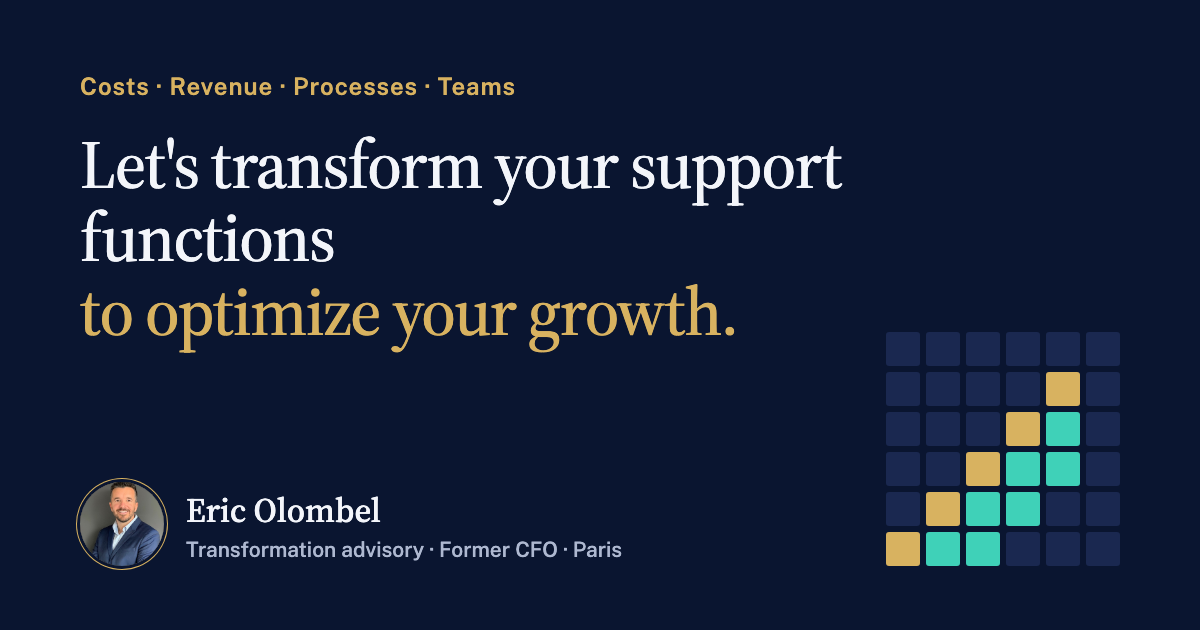
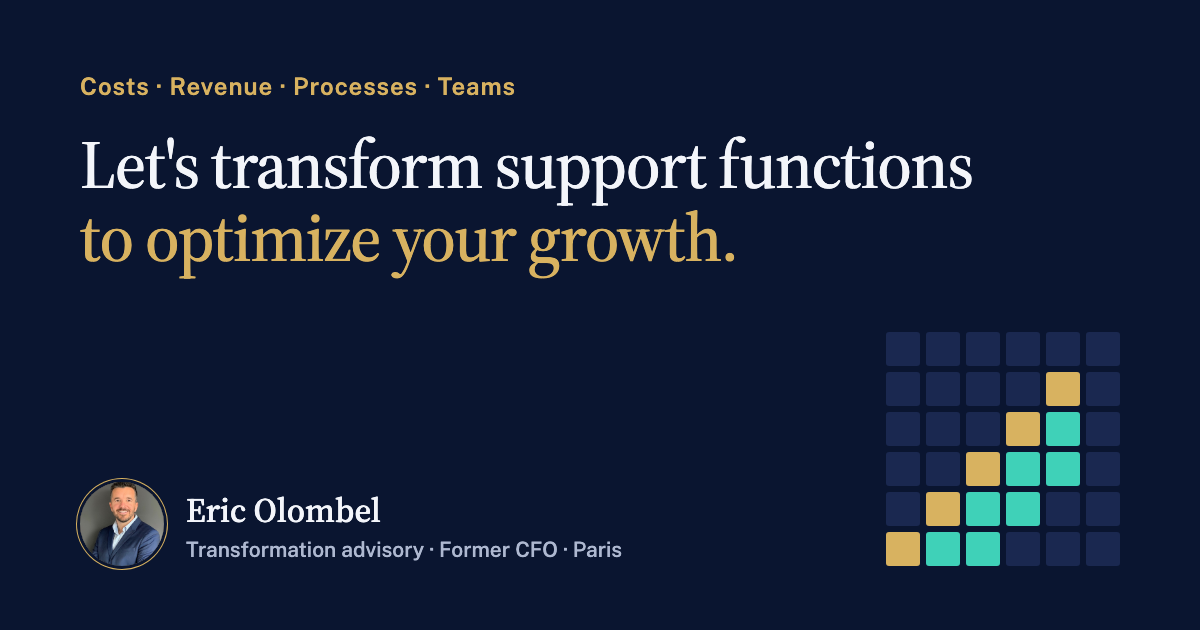
Accroche EN : « Let's transform support functions » et image OG régénérée

Changed region(s): [[0.0617, 0.2111, 0.8325, 0.4524], [0.0617, 0.4524, 0.6167, 0.573]]

diff --git a/index.html b/index.html
@@ -680,7 +680,7 @@ section { padding: clamp(72px, 10vw, 136px) 0; }
     "nav.expertise": "Expertise", "nav.formats": "Engagements", "nav.about": "Background", "nav.contact": "Contact",
     "brand.role": "Transformation advisory",
     "hero.kicker": "Costs · Revenue · Processes · Teams",
-    "hero.l1": "Let's transform your support functions", "hero.l2": "to optimize your growth.",
+    "hero.l1": "Let's transform support functions", "hero.l2": "to optimize your growth.",
     "hero.lead": "Finance, HR, legal, operations: I simplify processes, cut costs and bring teams along through change. AI is one lever among others, used where it truly helps. <strong>20 years in finance</strong>, from audit to fintech, by way of investment banking.",
     "cta.mail": "Send an email", "cta.cv": "View resume",
     "video.cta": "Watch the overview", "video.dur": "2 min 25 · in English, captioned", "video.chapters": "In the video",
